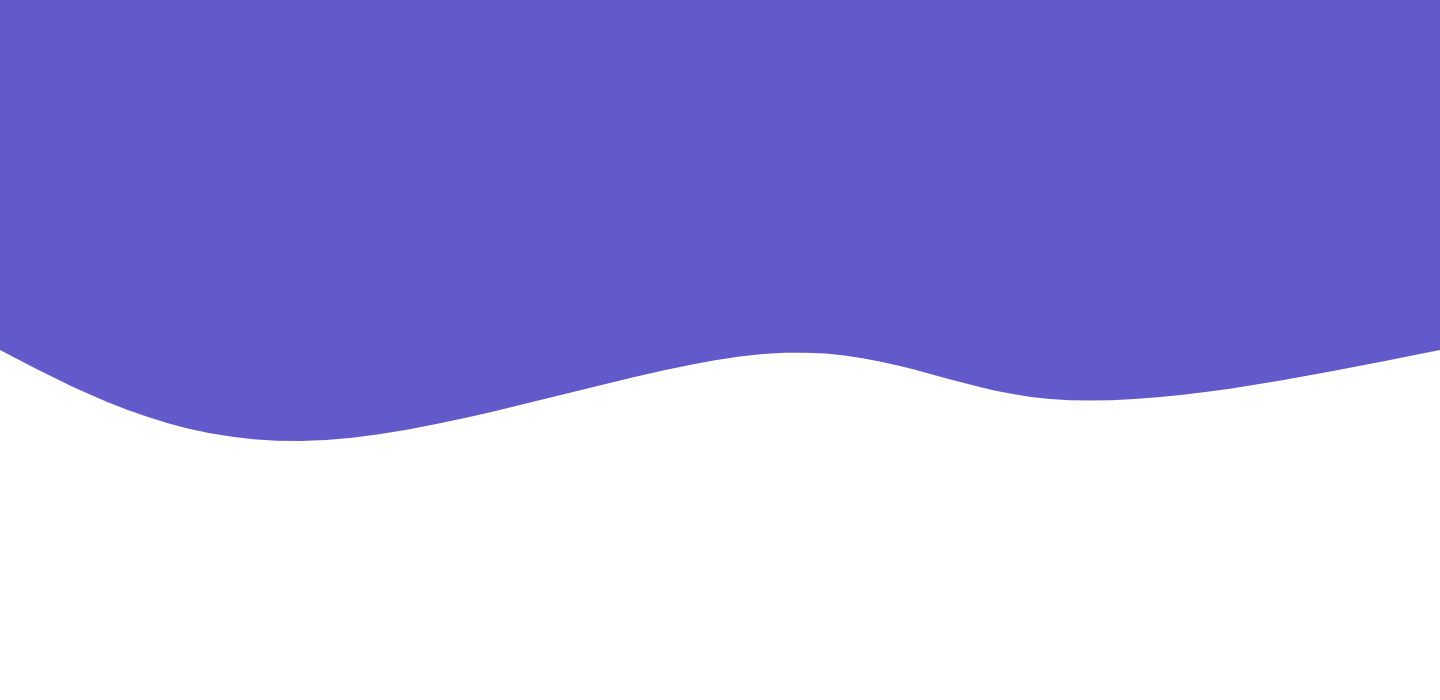
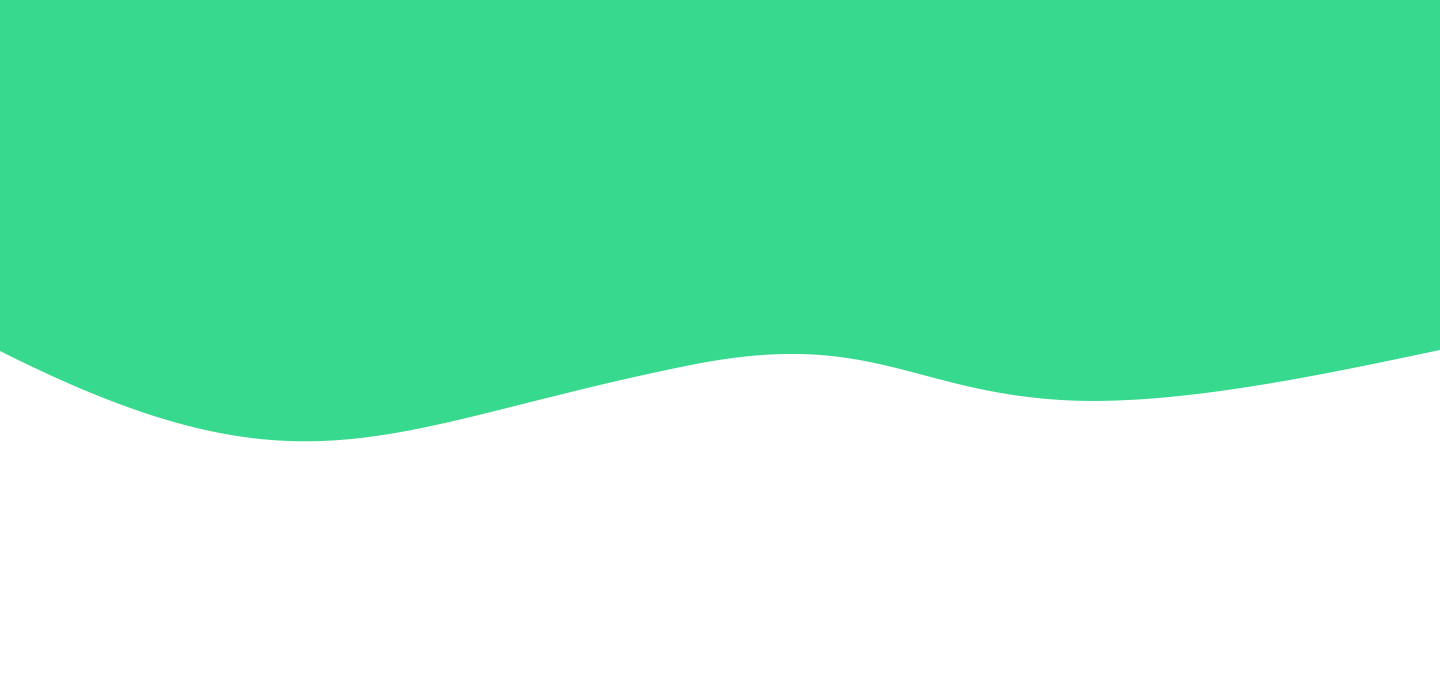
Troca da cor do landing page
Dps de vasculhar aquele código consegui, era uma IMAGEM tive que editar a imagem e salvar no lugar do outro

diff --git a/template/Spruha-React/src/components/LandingPage/Landingpage.js b/template/Spruha-React/src/components/LandingPage/Landingpage.js
@@ -1,4 +1,4 @@
-import { Fragment, useState,useContext } from "react";
+import { Fragment, useState, useContext } from "react";
 import icon from '../../assets/img/brand/icon.png';
 import iconlight from '../../assets/img/brand/icon-light.png';
 import { Link } from "react-router-dom";
@@ -7,7 +7,7 @@ import { Button, Card, Col, Container, Form, Nav, Navbar, Row, Tab } from "react
 import { Slicksider, Slicksiderwithdata } from "../../data/Landingpagedata/landingpagedata";
 import Navbar1 from "../../data/Landingpagedata/Navbar";
 import { usuarioContext } from "../..";
-import{useNavigate}from 'react-router-dom'
+import { useNavigate } from 'react-router-dom'
 const Landingpage = () => {
   let [isFirstCollapsed, setisFirstCollapsed] = useState(false);
   let [is2Collapsed, setis2Collapsed] = useState(false);
@@ -119,7 +119,7 @@ const Landingpage = () => {
   const Sidebartoggled = () => {
     document.querySelector(".landing-page").classList.toggle("sidenav-toggled");
   }
-  
+
 
   return (
     <Fragment>
@@ -163,12 +163,12 @@ const Landingpage = () => {
                           <Link to="#" className="btn ripple btn-min w-sm btn-outline-primary me-2"
                             target="_blank">Cadastrar
                           </Link>
-                          <Link 
-                          to={`${process.env.PUBLIC_URL}/login`}   
-                          className="btn ripple btn-min w-sm btn-primary me-2"
-                          target="_self"
-                            >
-                              Entrar
+                          <Link
+                            to={`${process.env.PUBLIC_URL}/login`}
+                            className="btn ripple btn-min w-sm btn-primary me-2"
+                            target="_self"
+                          >
+                            Entrar
                           </Link>
                         </div>
                       </div>
@@ -217,7 +217,7 @@ const Landingpage = () => {
                             target="_self">Entrar
                           </Link>
                         </div>
-  </div>
+                      </div>
                     </Row>
                   </Container>
                 </div>

diff --git a/template/Spruha-React/src/data/Landingpagedata/navbardata.js b/template/Spruha-React/src/data/Landingpagedata/navbardata.js
@@ -1,17 +1,17 @@
 export const links = [
     {
         id: 1,
-        text: 'Home',
+        text: 'Início',
         url: '#home',
     },
     {
         id: 2,
-        text: 'Features',
+        text: 'Recursos',
         url: '#Features',
     },
     {
         id: 3,
-        text: 'About',
+        text: 'Sobre',
         url: '#About',
     },
     {
@@ -26,12 +26,12 @@ export const links = [
     },
     {
         id: 6,
-        text: 'Clients',
+        text: 'Clientes',
         url: '#Clients',
     },
     {
         id: 7,
-        text: 'Contact',
+        text: 'Contato',
         url: '#Contact',
     },
 ]
